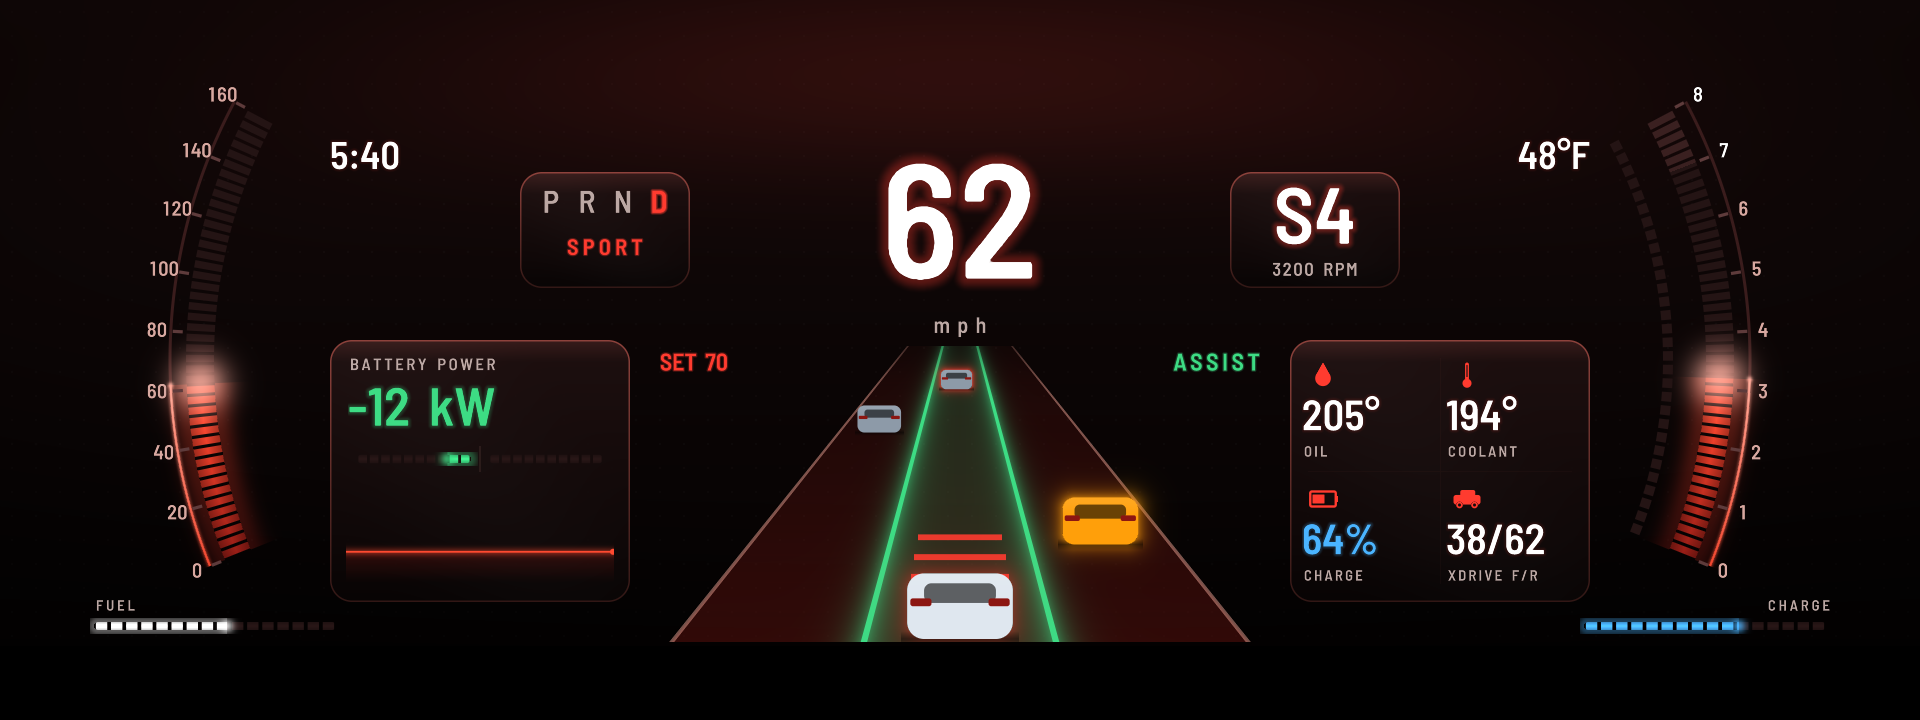
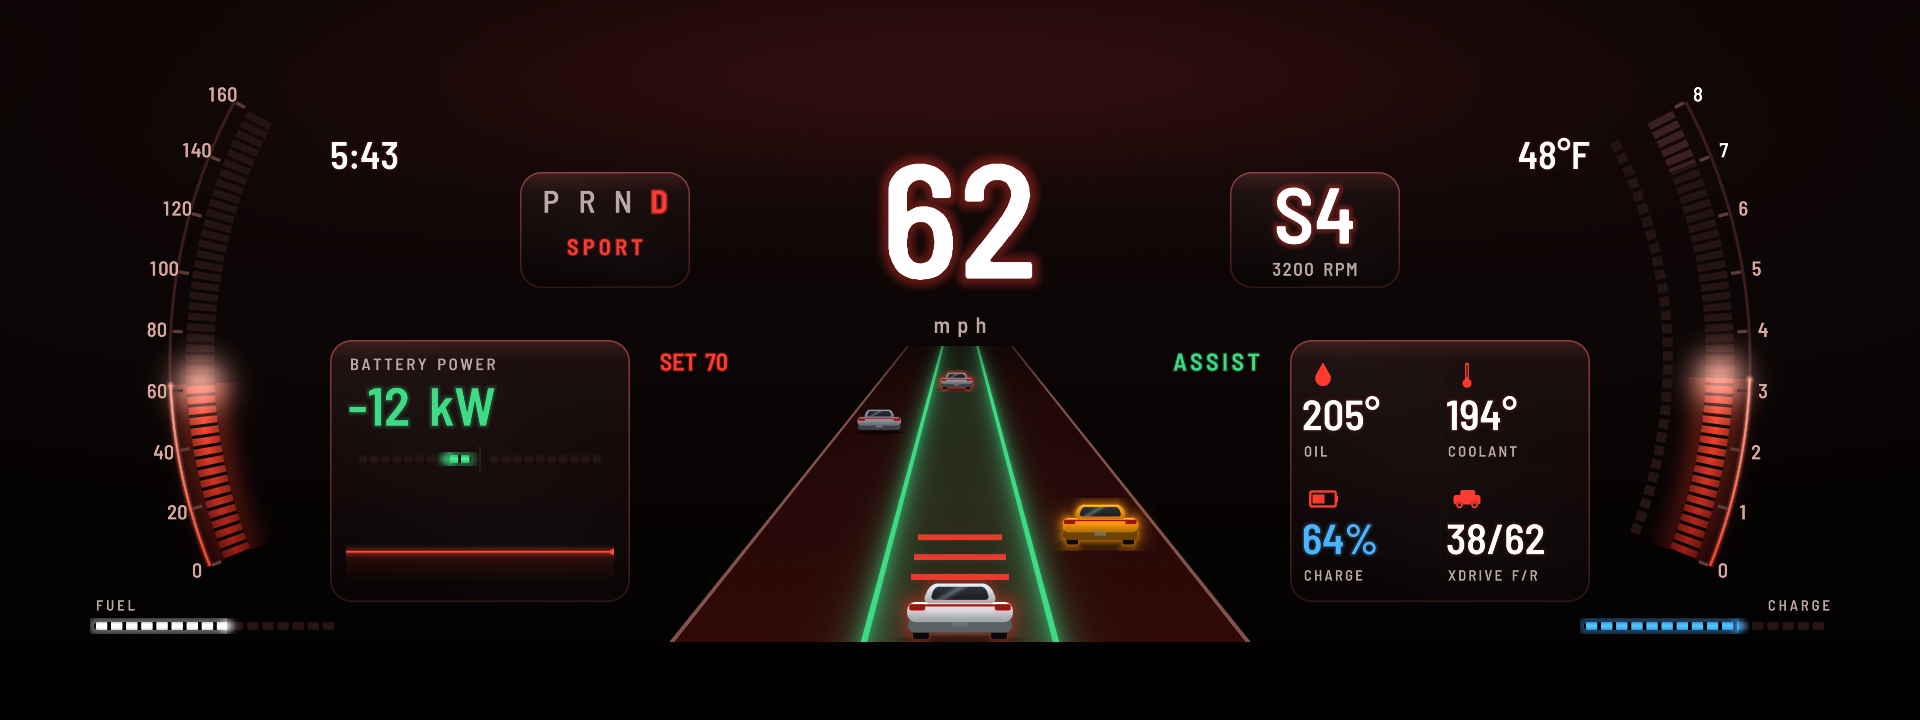
Cluster Layouts 0.19.1: the driving-assistant view's cars drawn in detail
Each car from behind now has a soft shadow, tyres, a bumper and plate,
a shaded body with a light along its shoulder, a cabin narrowing to the
roof with a glass rear window and its sheen, a full-width light bar
with lamps at the ends (and a third brake light), and a rim of light on
the roof. Cluster Centre 0.7.5 carries the shared shader.

diff --git a/apps/cluster_centre/shaders.js b/apps/cluster_centre/shaders.js
@@ -797,21 +797,41 @@ uniform vec3 u_ego;
 varying vec2 v_uv;
 float lineA(float dx, float w) { return clamp(w - abs(dx) + 0.5, 0.0, 1.0); }
 float rbox(vec2 p, vec2 b, float r) { vec2 q = abs(p) - b + r; return length(max(q, 0.0)) + min(max(q.x, q.y), 0.0) - r; }
-/* a car from behind, its bottom centre at b, w wide: body, rear window, lamps (bright when braking), a halo */
+/* coverage of a shape d (in u units, < 0 inside) with a pixel px wide */
+float cov(float d, float px) { return clamp(0.5 - d / px, 0.0, 1.0); }
+/* a car from behind, its bottom centre at b, w wide (u: units of w, y down): a soft shadow on the road, the tyres,
+ * the bumper with its plate, the body shaded with a light along its shoulder, the cabin narrowing to the roof with
+ * the rear window's glass and a sheen across it, a light bar the full width with the lamps at its ends (bright
+ * and glowing when braking, the third brake light too), a rim of light along the roof, a halo (followed, warned) */
 vec4 car(vec4 acc, vec2 p, vec2 b, float w, vec3 body, float brake, vec3 halo, float haloA) {
-    float h = w * 0.62;
-    vec2 q = p - (b - vec2(0.0, h * 0.5));
-    float d = rbox(q, vec2(w * 0.5, h * 0.5), w * 0.16);
-    acc = over(acc, halo, haloA * exp(-max(d, 0.0) / (w * 0.10)) * step(0.0, d));
-    acc = over(acc, vec3(0.0), 0.45 * clamp(1.0 - abs(q.y - h * 0.5) / (h * 0.12), 0.0, 1.0) * step(abs(q.x), w * 0.56));
-    acc = over(acc, body, clamp(0.5 - d, 0.0, 1.0));
-    acc = over(acc, mix(body, vec3(1.0), 0.25), clamp(0.5 - d, 0.0, 1.0) * smoothstep(0.0, -h * 0.5, q.y) * 0.35);
-    float dw = rbox(q - vec2(0.0, -h * 0.2), vec2(w * 0.34, h * 0.15), w * 0.07);
-    acc = over(acc, body * 0.35, clamp(0.5 - dw, 0.0, 1.0) * 0.9);
-    float dl = rbox(vec2(abs(q.x) - w * 0.37, q.y + h * 0.06), vec2(w * 0.1, h * 0.06), h * 0.04);
-    vec3 lamp = vec3(1.0, 0.16, 0.12);
-    acc = over(acc, lamp * (0.55 + 0.45 * brake), clamp(0.5 - dl, 0.0, 1.0));
-    acc = over(acc, lamp, brake * 0.55 * exp(-max(dl, 0.0) / (w * 0.07)));
+    vec2 u = (p - b) / w;
+    float px = 1.0 / w;
+    if (u.y < -0.62 || u.y > 0.08 || abs(u.x) > 0.75) return acc;
+    float sh = length(vec2(u.x / 0.6, (u.y - 0.004) / 0.045));
+    acc = over(acc, vec3(0.0), 0.6 * (1.0 - smoothstep(0.55, 1.15, sh)));
+    float taper = 1.0 + (-0.36 - u.y) * 1.5;
+    float dT = rbox(vec2(abs(u.x) - 0.37, u.y + 0.055), vec2(0.075, 0.055), 0.03);
+    float dB = rbox(u - vec2(0.0, -0.13), vec2(0.49, 0.07), 0.065);
+    float dM = rbox(u - vec2(0.0, -0.255), vec2(0.5, 0.095), 0.085);
+    float dC = rbox(vec2(u.x * taper, u.y + 0.43), vec2(0.355, 0.095), 0.085);
+    float dG = rbox(vec2(u.x * taper, u.y + 0.432), vec2(0.29, 0.062), 0.05);
+    float dS = min(min(dT, dB), min(dM, dC));
+    acc = over(acc, halo, haloA * exp(-max(dS, 0.0) / 0.07) * step(0.0, dS));
+    acc = over(acc, vec3(0.035), cov(dT, px));
+    acc = over(acc, body * 0.42, cov(dB, px));
+    acc = over(acc, vec3(0.78, 0.8, 0.82) * 0.55, cov(rbox(u - vec2(0.0, -0.14), vec2(0.075, 0.024), 0.008), px));
+    vec3 bc = body * (0.72 + 0.38 * smoothstep(-0.16, -0.34, u.y)) + vec3(0.22) * exp(-pow((u.y + 0.335) / 0.018, 2.0));
+    acc = over(acc, bc, cov(dM, px));
+    acc = over(acc, body * (0.8 + 0.2 * smoothstep(-0.36, -0.5, u.y)), cov(dC, px));
+    float sheen = exp(-pow((u.x * 0.8 + (u.y + 0.43) * 1.3 + 0.07) / 0.045, 2.0));
+    acc = over(acc, mix(vec3(0.02, 0.025, 0.035), vec3(0.5, 0.56, 0.62), 0.18 + 0.4 * sheen + 0.12 * smoothstep(-0.38, -0.49, u.y)), cov(dG, px));
+    acc = over(acc, vec3(1.0), 0.45 * clamp(1.0 - abs(dC + 0.008) / 0.008, 0.0, 1.0) * smoothstep(-0.44, -0.52, u.y));
+    vec3 red = vec3(1.0, 0.14, 0.1);
+    float dL = min(rbox(u - vec2(0.0, -0.318), vec2(0.46, 0.011), 0.011), rbox(vec2(abs(u.x) - 0.405, u.y + 0.3), vec2(0.075, 0.03), 0.02));
+    acc = over(acc, red * (0.6 + 0.4 * brake), cov(dL, px));
+    acc = over(acc, red, (0.18 + 0.5 * brake) * exp(-max(dL, 0.0) / (0.03 + 0.04 * brake)) * step(0.0, dL));
+    float dK = rbox(u - vec2(0.0, -0.508), vec2(0.07, 0.007), 0.007);
+    acc = over(acc, red, brake * cov(dK, px));
     return acc;
 }
 void main() {

diff --git a/apps/cluster_layouts/shaders.js b/apps/cluster_layouts/shaders.js
@@ -797,21 +797,41 @@ uniform vec3 u_ego;
 varying vec2 v_uv;
 float lineA(float dx, float w) { return clamp(w - abs(dx) + 0.5, 0.0, 1.0); }
 float rbox(vec2 p, vec2 b, float r) { vec2 q = abs(p) - b + r; return length(max(q, 0.0)) + min(max(q.x, q.y), 0.0) - r; }
-/* a car from behind, its bottom centre at b, w wide: body, rear window, lamps (bright when braking), a halo */
+/* coverage of a shape d (in u units, < 0 inside) with a pixel px wide */
+float cov(float d, float px) { return clamp(0.5 - d / px, 0.0, 1.0); }
+/* a car from behind, its bottom centre at b, w wide (u: units of w, y down): a soft shadow on the road, the tyres,
+ * the bumper with its plate, the body shaded with a light along its shoulder, the cabin narrowing to the roof with
+ * the rear window's glass and a sheen across it, a light bar the full width with the lamps at its ends (bright
+ * and glowing when braking, the third brake light too), a rim of light along the roof, a halo (followed, warned) */
 vec4 car(vec4 acc, vec2 p, vec2 b, float w, vec3 body, float brake, vec3 halo, float haloA) {
-    float h = w * 0.62;
-    vec2 q = p - (b - vec2(0.0, h * 0.5));
-    float d = rbox(q, vec2(w * 0.5, h * 0.5), w * 0.16);
-    acc = over(acc, halo, haloA * exp(-max(d, 0.0) / (w * 0.10)) * step(0.0, d));
-    acc = over(acc, vec3(0.0), 0.45 * clamp(1.0 - abs(q.y - h * 0.5) / (h * 0.12), 0.0, 1.0) * step(abs(q.x), w * 0.56));
-    acc = over(acc, body, clamp(0.5 - d, 0.0, 1.0));
-    acc = over(acc, mix(body, vec3(1.0), 0.25), clamp(0.5 - d, 0.0, 1.0) * smoothstep(0.0, -h * 0.5, q.y) * 0.35);
-    float dw = rbox(q - vec2(0.0, -h * 0.2), vec2(w * 0.34, h * 0.15), w * 0.07);
-    acc = over(acc, body * 0.35, clamp(0.5 - dw, 0.0, 1.0) * 0.9);
-    float dl = rbox(vec2(abs(q.x) - w * 0.37, q.y + h * 0.06), vec2(w * 0.1, h * 0.06), h * 0.04);
-    vec3 lamp = vec3(1.0, 0.16, 0.12);
-    acc = over(acc, lamp * (0.55 + 0.45 * brake), clamp(0.5 - dl, 0.0, 1.0));
-    acc = over(acc, lamp, brake * 0.55 * exp(-max(dl, 0.0) / (w * 0.07)));
+    vec2 u = (p - b) / w;
+    float px = 1.0 / w;
+    if (u.y < -0.62 || u.y > 0.08 || abs(u.x) > 0.75) return acc;
+    float sh = length(vec2(u.x / 0.6, (u.y - 0.004) / 0.045));
+    acc = over(acc, vec3(0.0), 0.6 * (1.0 - smoothstep(0.55, 1.15, sh)));
+    float taper = 1.0 + (-0.36 - u.y) * 1.5;
+    float dT = rbox(vec2(abs(u.x) - 0.37, u.y + 0.055), vec2(0.075, 0.055), 0.03);
+    float dB = rbox(u - vec2(0.0, -0.13), vec2(0.49, 0.07), 0.065);
+    float dM = rbox(u - vec2(0.0, -0.255), vec2(0.5, 0.095), 0.085);
+    float dC = rbox(vec2(u.x * taper, u.y + 0.43), vec2(0.355, 0.095), 0.085);
+    float dG = rbox(vec2(u.x * taper, u.y + 0.432), vec2(0.29, 0.062), 0.05);
+    float dS = min(min(dT, dB), min(dM, dC));
+    acc = over(acc, halo, haloA * exp(-max(dS, 0.0) / 0.07) * step(0.0, dS));
+    acc = over(acc, vec3(0.035), cov(dT, px));
+    acc = over(acc, body * 0.42, cov(dB, px));
+    acc = over(acc, vec3(0.78, 0.8, 0.82) * 0.55, cov(rbox(u - vec2(0.0, -0.14), vec2(0.075, 0.024), 0.008), px));
+    vec3 bc = body * (0.72 + 0.38 * smoothstep(-0.16, -0.34, u.y)) + vec3(0.22) * exp(-pow((u.y + 0.335) / 0.018, 2.0));
+    acc = over(acc, bc, cov(dM, px));
+    acc = over(acc, body * (0.8 + 0.2 * smoothstep(-0.36, -0.5, u.y)), cov(dC, px));
+    float sheen = exp(-pow((u.x * 0.8 + (u.y + 0.43) * 1.3 + 0.07) / 0.045, 2.0));
+    acc = over(acc, mix(vec3(0.02, 0.025, 0.035), vec3(0.5, 0.56, 0.62), 0.18 + 0.4 * sheen + 0.12 * smoothstep(-0.38, -0.49, u.y)), cov(dG, px));
+    acc = over(acc, vec3(1.0), 0.45 * clamp(1.0 - abs(dC + 0.008) / 0.008, 0.0, 1.0) * smoothstep(-0.44, -0.52, u.y));
+    vec3 red = vec3(1.0, 0.14, 0.1);
+    float dL = min(rbox(u - vec2(0.0, -0.318), vec2(0.46, 0.011), 0.011), rbox(vec2(abs(u.x) - 0.405, u.y + 0.3), vec2(0.075, 0.03), 0.02));
+    acc = over(acc, red * (0.6 + 0.4 * brake), cov(dL, px));
+    acc = over(acc, red, (0.18 + 0.5 * brake) * exp(-max(dL, 0.0) / (0.03 + 0.04 * brake)) * step(0.0, dL));
+    float dK = rbox(u - vec2(0.0, -0.508), vec2(0.07, 0.007), 0.007);
+    acc = over(acc, red, brake * cov(dK, px));
     return acc;
 }
 void main() {

diff --git a/shared/shaders.js b/shared/shaders.js
@@ -797,21 +797,41 @@ uniform vec3 u_ego;
 varying vec2 v_uv;
 float lineA(float dx, float w) { return clamp(w - abs(dx) + 0.5, 0.0, 1.0); }
 float rbox(vec2 p, vec2 b, float r) { vec2 q = abs(p) - b + r; return length(max(q, 0.0)) + min(max(q.x, q.y), 0.0) - r; }
-/* a car from behind, its bottom centre at b, w wide: body, rear window, lamps (bright when braking), a halo */
+/* coverage of a shape d (in u units, < 0 inside) with a pixel px wide */
+float cov(float d, float px) { return clamp(0.5 - d / px, 0.0, 1.0); }
+/* a car from behind, its bottom centre at b, w wide (u: units of w, y down): a soft shadow on the road, the tyres,
+ * the bumper with its plate, the body shaded with a light along its shoulder, the cabin narrowing to the roof with
+ * the rear window's glass and a sheen across it, a light bar the full width with the lamps at its ends (bright
+ * and glowing when braking, the third brake light too), a rim of light along the roof, a halo (followed, warned) */
 vec4 car(vec4 acc, vec2 p, vec2 b, float w, vec3 body, float brake, vec3 halo, float haloA) {
-    float h = w * 0.62;
-    vec2 q = p - (b - vec2(0.0, h * 0.5));
-    float d = rbox(q, vec2(w * 0.5, h * 0.5), w * 0.16);
-    acc = over(acc, halo, haloA * exp(-max(d, 0.0) / (w * 0.10)) * step(0.0, d));
-    acc = over(acc, vec3(0.0), 0.45 * clamp(1.0 - abs(q.y - h * 0.5) / (h * 0.12), 0.0, 1.0) * step(abs(q.x), w * 0.56));
-    acc = over(acc, body, clamp(0.5 - d, 0.0, 1.0));
-    acc = over(acc, mix(body, vec3(1.0), 0.25), clamp(0.5 - d, 0.0, 1.0) * smoothstep(0.0, -h * 0.5, q.y) * 0.35);
-    float dw = rbox(q - vec2(0.0, -h * 0.2), vec2(w * 0.34, h * 0.15), w * 0.07);
-    acc = over(acc, body * 0.35, clamp(0.5 - dw, 0.0, 1.0) * 0.9);
-    float dl = rbox(vec2(abs(q.x) - w * 0.37, q.y + h * 0.06), vec2(w * 0.1, h * 0.06), h * 0.04);
-    vec3 lamp = vec3(1.0, 0.16, 0.12);
-    acc = over(acc, lamp * (0.55 + 0.45 * brake), clamp(0.5 - dl, 0.0, 1.0));
-    acc = over(acc, lamp, brake * 0.55 * exp(-max(dl, 0.0) / (w * 0.07)));
+    vec2 u = (p - b) / w;
+    float px = 1.0 / w;
+    if (u.y < -0.62 || u.y > 0.08 || abs(u.x) > 0.75) return acc;
+    float sh = length(vec2(u.x / 0.6, (u.y - 0.004) / 0.045));
+    acc = over(acc, vec3(0.0), 0.6 * (1.0 - smoothstep(0.55, 1.15, sh)));
+    float taper = 1.0 + (-0.36 - u.y) * 1.5;
+    float dT = rbox(vec2(abs(u.x) - 0.37, u.y + 0.055), vec2(0.075, 0.055), 0.03);
+    float dB = rbox(u - vec2(0.0, -0.13), vec2(0.49, 0.07), 0.065);
+    float dM = rbox(u - vec2(0.0, -0.255), vec2(0.5, 0.095), 0.085);
+    float dC = rbox(vec2(u.x * taper, u.y + 0.43), vec2(0.355, 0.095), 0.085);
+    float dG = rbox(vec2(u.x * taper, u.y + 0.432), vec2(0.29, 0.062), 0.05);
+    float dS = min(min(dT, dB), min(dM, dC));
+    acc = over(acc, halo, haloA * exp(-max(dS, 0.0) / 0.07) * step(0.0, dS));
+    acc = over(acc, vec3(0.035), cov(dT, px));
+    acc = over(acc, body * 0.42, cov(dB, px));
+    acc = over(acc, vec3(0.78, 0.8, 0.82) * 0.55, cov(rbox(u - vec2(0.0, -0.14), vec2(0.075, 0.024), 0.008), px));
+    vec3 bc = body * (0.72 + 0.38 * smoothstep(-0.16, -0.34, u.y)) + vec3(0.22) * exp(-pow((u.y + 0.335) / 0.018, 2.0));
+    acc = over(acc, bc, cov(dM, px));
+    acc = over(acc, body * (0.8 + 0.2 * smoothstep(-0.36, -0.5, u.y)), cov(dC, px));
+    float sheen = exp(-pow((u.x * 0.8 + (u.y + 0.43) * 1.3 + 0.07) / 0.045, 2.0));
+    acc = over(acc, mix(vec3(0.02, 0.025, 0.035), vec3(0.5, 0.56, 0.62), 0.18 + 0.4 * sheen + 0.12 * smoothstep(-0.38, -0.49, u.y)), cov(dG, px));
+    acc = over(acc, vec3(1.0), 0.45 * clamp(1.0 - abs(dC + 0.008) / 0.008, 0.0, 1.0) * smoothstep(-0.44, -0.52, u.y));
+    vec3 red = vec3(1.0, 0.14, 0.1);
+    float dL = min(rbox(u - vec2(0.0, -0.318), vec2(0.46, 0.011), 0.011), rbox(vec2(abs(u.x) - 0.405, u.y + 0.3), vec2(0.075, 0.03), 0.02));
+    acc = over(acc, red * (0.6 + 0.4 * brake), cov(dL, px));
+    acc = over(acc, red, (0.18 + 0.5 * brake) * exp(-max(dL, 0.0) / (0.03 + 0.04 * brake)) * step(0.0, dL));
+    float dK = rbox(u - vec2(0.0, -0.508), vec2(0.07, 0.007), 0.007);
+    acc = over(acc, red, brake * cov(dK, px));
     return acc;
 }
 void main() {
